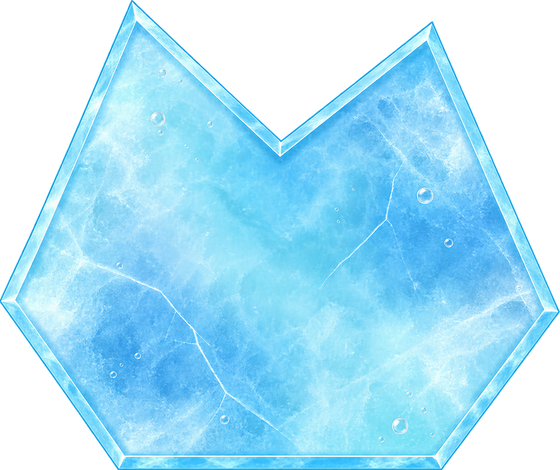
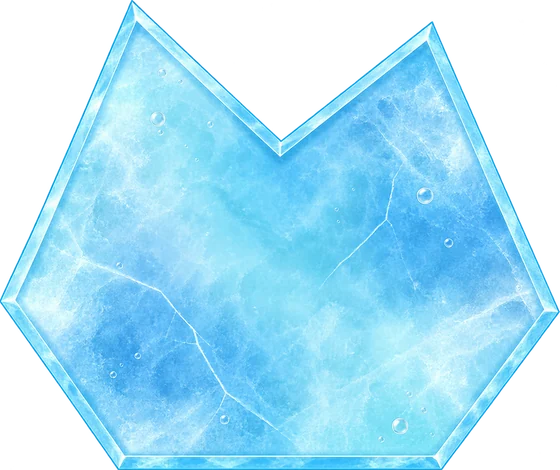
The hanging blocks stop shipping near-lossless, and the dead ends of two removed panels go with them
tools/build-option-shapes.mjs was the last encoder still on nearLossless — the
same mistake tools/slice-char.mjs already records having fixed for the character
sheets. It cost 122-283kB per block and 2.9MB for the set, and it was the single
largest BLOCKING download in the game: the engine preloads the whole of
optionShapes, so every one of the fourteen is fetched on every load, three times
the weight of the entire character set a phone pulls.

It bought nothing, for a specific reason rather than a judgement call. The
SILHOUETTE — the thing the learner counts the sides of — is not in these files.
paintGlacierChunk traces the ring from option-shapes.js and CLIPS to it, so the
countable outline is vector geometry no encoder can touch; the file carries only
the ice texture inside that outline, and it is never drawn at native size (a
560px block renders at ~273 stage px at most, the three-option case).

  option-shape        2.90MB -> 1.03MB
  base art on a phone 5.83MB -> 4.03MB

option-shapes.js comes out byte-identical, so every ring, side count, convexity
and regularity check is unchanged, and all fourteen still verify.

Dead code, all of it left behind by the Ouch card and the ending coins:

  hud.js       an unused shapeRing import; the winCount/winTotal lookups, whose
               elements went with the coins; the Try Again binding AND the two
               capture-phase listeners behind it, which ran on every key and
[…]

diff --git a/game/js/game.bundle.js b/game/js/game.bundle.js
@@ -66,20 +66,20 @@ const ASSET_V = {
   "assets/env/rock-tall.webp": "760283f8",
   "assets/env/rock-wide.webp": "6247692d",
   "assets/env/rope-tied.webp": "f9b3e721",
-  "assets/option-shape/concaveHeptagon.webp": "29723c85",
-  "assets/option-shape/concaveHexagon.webp": "e6b4772e",
-  "assets/option-shape/concavePentagon.webp": "21995454",
-  "assets/option-shape/irregularConvexHexagon.webp": "14a3f74b",
-  "assets/option-shape/irregularConvexOctagon.webp": "0e5ed5a5",
-  "assets/option-shape/irregularConvexPentagon.webp": "ec4cc8e3",
-  "assets/option-shape/irregularHexagon.webp": "e316a47a",
-  "assets/option-shape/irregularPentagon.webp": "c67075eb",
-  "assets/option-shape/regularHeptagon.webp": "2d60716e",
-  "assets/option-shape/regularHexagon.webp": "185e234e",
-  "assets/option-shape/regularOctagon.webp": "1b319c7e",
-  "assets/option-shape/regularPentagon.webp": "919d464a",
-  "assets/option-shape/regularQuadrilateral.webp": "1535a73f",
-  "assets/option-shape/regularTriangle.webp": "ca44c6bc",
+  "assets/option-shape/concaveHeptagon.webp": "d943871c",
+  "assets/option-shape/concaveHexagon.webp": "38aae90c",
+  "assets/option-shape/concavePentagon.webp": "25cd2560",
+  "assets/option-shape/irregularConvexHexagon.webp": "34026be0",
+  "assets/option-shape/irregularConvexOctagon.webp": "c9da4f1e",
+  "assets/option-shape/irregularConvexPentagon.webp": "9d83d4f8",
+  "assets/option-shape/irregularHexagon.webp": "ea10089e",
+  "assets/option-shape/irregularPentagon.webp": "143d86fb",
+  "assets/option-shape/regularHeptagon.webp": "f75c1fcd",
+  "assets/option-shape/regularHexagon.webp": "6e7f28e5",
+  "assets/option-shape/regularOctagon.webp": "33794981",
+  "assets/option-shape/regularPentagon.webp": "04a3a89a",
+  "assets/option-shape/regularQuadrilateral.webp": "63fa2bf0",
+  "assets/option-shape/regularTriangle.webp": "b16acb47",
   "assets/sky/01-dawn.webp": "7dbf9fd1",
   "assets/sky/02-early-morning.webp": "08988173",
   "assets/sky/03-morning.webp": "aae081ec",
@@ -9913,8 +9913,6 @@ class Hud {
       complete: root.getElementById('complete'),
       winBubble: root.getElementById('win-bubble'),
       winShape: root.getElementById('win-shape'),
-      winCount: root.getElementById('win-count'),
-      winTotal: root.getElementById('win-total'),
       replay: root.getElementById('btn-replay'),
       /* oops and retry are gone from the markup: a crash recovers by itself now and
          there is no failure panel. The lookups are not kept "just in case" — every
@@ -10121,22 +10119,13 @@ class Hud {
       handlers.onReplay();
     });
 
-    // "Try Again" retries the obstacle the mammoth walked into — it never
-    // restarts the journey, so no repaired bridge or progress is ever lost.
-    if (this.el.retry) {
-      this.el.retry.addEventListener('click', () => handlers.onRetry && handlers.onRetry());
-    }
-
-    /* WHICH INPUT IS IN USE. Only a keyboard player benefits from the Ouch card
-       focusing Try Again on open, and for everyone else that focus is what put a
-       visible focus indicator around the button unasked. Two listeners settle it:
-       any key press means a keyboard is in play, any pointer press means it is not.
-       Capture phase, so the flag is already right by the time anything reads it. */
-    this._kbd = false;
-    this._onKey = () => { this._kbd = true; };
-    this._onPtr = () => { this._kbd = false; };
-    window.addEventListener('keydown', this._onKey, true);
-    window.addEventListener('pointerdown', this._onPtr, true);
+    /* NO "TRY AGAIN" BINDING, and no keyboard/pointer tracking behind it. Both belonged
+       to the Ouch card: the binding to its button, and the two capture-phase listeners to
+       a `_kbd` flag that decided whether opening the card should focus that button. The
+       card is gone (a crash plays out and the run resumes on its own — see OBSTACLE_HIT),
+       so the button has no element, the flag had no reader, and the listeners ran on every
+       key and pointer press for the whole session to maintain it. The engine's
+       retryObstacle() is untouched: it is called by the engine itself, not from here. */
 
     // the banner's drawn shape follows its box when the window changes
     window.addEventListener('resize', () => { if (this._winFit && this.el.complete && !this.el.complete.hidden) this._winFit(); });
@@ -10239,9 +10228,6 @@ class Hud {
     clearTimeout(this._flashT);
     window.removeEventListener('resize', this._onResize);
     window.removeEventListener('orientationchange', this._onResize);
-
-    if (this._onKey) window.removeEventListener('keydown', this._onKey, true);
-    if (this._onPtr) window.removeEventListener('pointerdown', this._onPtr, true);
   }
 }
 
@@ -10267,14 +10253,10 @@ class Frontend {
     this.el = {
       cover: root.getElementById('cover'),
       play: root.getElementById('btn-play'),
-      loadingNote: root.getElementById('cover-loading'),
-      /* oopsHero is gone with the Ouch card — see index.html. The win panel has a hero
-         of its own, filled by showWin() below from the character's own sheet. */
-      winHero: root.getElementById('win-hero')
+      loadingNote: root.getElementById('cover-loading')
     };
     this.state = 'ENTERING';
     this._timers = [];
-    this._hurt = null;
   }
 
   /** @param {{onStart:Function}} handlers */
@@ -10337,51 +10319,22 @@ class Frontend {
     });
   }
 
-  /* ---- the Ouch panel's hero ---- */
-
-  /** One cell of a sprite strip, as a DOM background. */
-  frameAt(elem, sheet, f) {
-    if (!sheet) return;
-    elem.style.backgroundImage = 'url("' + sheet.src + '")';
-    elem.style.backgroundSize = (sheet.frames * 100) + '% 100%';
-    const pct = sheet.frames > 1 ? (f / (sheet.frames - 1)) * 100 : 0;
-    elem.style.backgroundPositionX = pct + '%';
-  }
-
-  /* THE WIN PANEL'S CHARACTER, on ONE frame rather than a loop.
-
-     The Ouch card used to run a setInterval stepping frames onto its hero at 140ms —
-     a second animation, outside the renderer, of a beat the canvas was already
-     animating. This does not repeat that: the character on the CANVAS behind the
-     panel is already celebrating, so a second animated copy of him on the panel would
-     be two performances of one moment. One still, held, is enough to say who did it.
-
-     It reads the idle sheet, which is the one delivered sheet with a settled standing
-     pose and is otherwise unused (see CFG.characters.sheets) — so the art is already
-     built and this costs nothing new. Falls through to run, then jump, so a missing
-     sheet leaves the panel without a picture rather than without a panel. */
-  showWin() {
-    if (!this.el.winHero) return;
-    const id = this.game.character();
-    const sheet = this.game.sheetFor(id, 'idle') ||
-                  this.game.sheetFor(id, 'run') ||
-                  this.game.sheetFor(id, 'jump');
-    if (!sheet) return;
-    this.frameAt(this.el.winHero, sheet, 0);
-  }
-
-  /* showHurt/hideHurt are gone. They ran a setInterval that stepped the last few
-     frames of a sheet onto the Ouch card's hero element at 140ms — a second, DOM-side
-     animation of a beat the canvas is already animating. The card went (a crash
-     recovers by itself now) and with it the reason for a frame pump outside the
-     renderer: the delivered 36-frame knockout plays on the canvas, where the rest of
-     the character animation lives. */
+  /* NO PANEL HERO, AND NO FRAME PUMP FOR ONE. Two of these lived here and both are gone
+     with the panels they filled: showHurt/hideHurt stepped sheet frames onto the Ouch
+     card's hero on a setInterval, and showWin held one idle frame on the ending card's.
+     The Ouch card went (a crash plays out and recovers by itself), and the ending card
+     has no hero either — the real character is on the CANVAS behind it, celebrating next
+     to the friend who was waiting, and a second still copy of him on the panel competed
+     with that as well as covering the pair of them. `frameAt`, the sprite-strip-as-DOM-
+     background helper both used, went with them: nothing outside the renderer animates
+     the character any more, which is where that job belongs. */
 
   wait(ms, fn) { const t = setTimeout(fn, ms); this._timers.push(t); return t; }
 
   destroy() {
+    // only wait() fills _timers, and only ever with setTimeout ids — the second sweep
+    // with clearInterval was for the frame pumps above, which are gone
     this._timers.forEach(clearTimeout);
-    this._timers.forEach(clearInterval);
     window.removeEventListener('keydown', this._onKey);
   }
 }
@@ -11639,7 +11592,6 @@ hud.bind({
   onReplay: () => game.restart(),
   // TEMPORARY review control: end the tutorial if it is up, then jump to the ending
   onSkipEnd: () => { if (tut) { tut.finish(); tut = null; } game.skipToEnd(); },
-  onRetry: () => game.retryObstacle(),
   // returns the new state so the HUD can swap the glyph without asking again
   onSound: () => game.toggleSound(),
   // re-states the objective; it never reveals which chunk is the answer

diff --git a/game/js/frontend.js b/game/js/frontend.js
@@ -18,14 +18,10 @@ export class Frontend {
     this.el = {
       cover: root.getElementById('cover'),
       play: root.getElementById('btn-play'),
-      loadingNote: root.getElementById('cover-loading'),
-      /* oopsHero is gone with the Ouch card — see index.html. The win panel has a hero
-         of its own, filled by showWin() below from the character's own sheet. */
-      winHero: root.getElementById('win-hero')
+      loadingNote: root.getElementById('cover-loading')
     };
     this.state = 'ENTERING';
     this._timers = [];
-    this._hurt = null;
   }
 
   /** @param {{onStart:Function}} handlers */
@@ -88,51 +84,22 @@ export class Frontend {
     });
   }
 
-  /* ---- the Ouch panel's hero ---- */
-
-  /** One cell of a sprite strip, as a DOM background. */
-  frameAt(elem, sheet, f) {
-    if (!sheet) return;
-    elem.style.backgroundImage = 'url("' + sheet.src + '")';
-    elem.style.backgroundSize = (sheet.frames * 100) + '% 100%';
-    const pct = sheet.frames > 1 ? (f / (sheet.frames - 1)) * 100 : 0;
-    elem.style.backgroundPositionX = pct + '%';
-  }
-
-  /* THE WIN PANEL'S CHARACTER, on ONE frame rather than a loop.
-
-     The Ouch card used to run a setInterval stepping frames onto its hero at 140ms —
-     a second animation, outside the renderer, of a beat the canvas was already
-     animating. This does not repeat that: the character on the CANVAS behind the
-     panel is already celebrating, so a second animated copy of him on the panel would
-     be two performances of one moment. One still, held, is enough to say who did it.
-
-     It reads the idle sheet, which is the one delivered sheet with a settled standing
-     pose and is otherwise unused (see CFG.characters.sheets) — so the art is already
-     built and this costs nothing new. Falls through to run, then jump, so a missing
-     sheet leaves the panel without a picture rather than without a panel. */
-  showWin() {
-    if (!this.el.winHero) return;
-    const id = this.game.character();
-    const sheet = this.game.sheetFor(id, 'idle') ||
-                  this.game.sheetFor(id, 'run') ||
-                  this.game.sheetFor(id, 'jump');
-    if (!sheet) return;
-    this.frameAt(this.el.winHero, sheet, 0);
-  }
-
-  /* showHurt/hideHurt are gone. They ran a setInterval that stepped the last few
-     frames of a sheet onto the Ouch card's hero element at 140ms — a second, DOM-side
-     animation of a beat the canvas is already animating. The card went (a crash
-     recovers by itself now) and with it the reason for a frame pump outside the
-     renderer: the delivered 36-frame knockout plays on the canvas, where the rest of
-     the character animation lives. */
+  /* NO PANEL HERO, AND NO FRAME PUMP FOR ONE. Two of these lived here and both are gone
+     with the panels they filled: showHurt/hideHurt stepped sheet frames onto the Ouch
+     card's hero on a setInterval, and showWin held one idle frame on the ending card's.
+     The Ouch card went (a crash plays out and recovers by itself), and the ending card
+     has no hero either — the real character is on the CANVAS behind it, celebrating next
+     to the friend who was waiting, and a second still copy of him on the panel competed
+     with that as well as covering the pair of them. `frameAt`, the sprite-strip-as-DOM-
+     background helper both used, went with them: nothing outside the renderer animates
+     the character any more, which is where that job belongs. */
 
   wait(ms, fn) { const t = setTimeout(fn, ms); this._timers.push(t); return t; }
 
   destroy() {
+    // only wait() fills _timers, and only ever with setTimeout ids — the second sweep
+    // with clearInterval was for the frame pumps above, which are gone
     this._timers.forEach(clearTimeout);
-    this._timers.forEach(clearInterval);
     window.removeEventListener('keydown', this._onKey);
   }
 }

diff --git a/game/js/hud.js b/game/js/hud.js
@@ -1,7 +1,6 @@
 /* HUD controller — owns every DOM element outside the canvas and mirrors the
    engine's HUD state onto it. The engine never touches the DOM itself. */
 
-import { shapeRing } from './option-shapes.js';
 import { fitBubble } from './bubble.js';
 
 export class Hud {
@@ -34,8 +33,6 @@ export class Hud {
       complete: root.getElementById('complete'),
       winBubble: root.getElementById('win-bubble'),
       winShape: root.getElementById('win-shape'),
-      winCount: root.getElementById('win-count'),
-      winTotal: root.getElementById('win-total'),
       replay: root.getElementById('btn-replay'),
       /* oops and retry are gone from the markup: a crash recovers by itself now and
          there is no failure panel. The lookups are not kept "just in case" — every
@@ -242,22 +239,13 @@ export class Hud {
       handlers.onReplay();
     });
 
-    // "Try Again" retries the obstacle the mammoth walked into — it never
-    // restarts the journey, so no repaired bridge or progress is ever lost.
-    if (this.el.retry) {
-      this.el.retry.addEventListener('click', () => handlers.onRetry && handlers.onRetry());
-    }
-
-    /* WHICH INPUT IS IN USE. Only a keyboard player benefits from the Ouch card
-       focusing Try Again on open, and for everyone else that focus is what put a
-       visible focus indicator around the button unasked. Two listeners settle it:
-       any key press means a keyboard is in play, any pointer press means it is not.
-       Capture phase, so the flag is already right by the time anything reads it. */
-    this._kbd = false;
-    this._onKey = () => { this._kbd = true; };
-    this._onPtr = () => { this._kbd = false; };
-    window.addEventListener('keydown', this._onKey, true);
-    window.addEventListener('pointerdown', this._onPtr, true);
+    /* NO "TRY AGAIN" BINDING, and no keyboard/pointer tracking behind it. Both belonged
+       to the Ouch card: the binding to its button, and the two capture-phase listeners to
+       a `_kbd` flag that decided whether opening the card should focus that button. The
+       card is gone (a crash plays out and the run resumes on its own — see OBSTACLE_HIT),
+       so the button has no element, the flag had no reader, and the listeners ran on every
+       key and pointer press for the whole session to maintain it. The engine's
+       retryObstacle() is untouched: it is called by the engine itself, not from here. */
 
     // the banner's drawn shape follows its box when the window changes
     window.addEventListener('resize', () => { if (this._winFit && this.el.complete && !this.el.complete.hidden) this._winFit(); });
@@ -360,8 +348,5 @@ export class Hud {
     clearTimeout(this._flashT);
     window.removeEventListener('resize', this._onResize);
     window.removeEventListener('orientationchange', this._onResize);
-
-    if (this._onKey) window.removeEventListener('keydown', this._onKey, true);
-    if (this._onPtr) window.removeEventListener('pointerdown', this._onPtr, true);
   }
 }

diff --git a/game/js/asset-versions.js b/game/js/asset-versions.js
@@ -48,20 +48,20 @@ export const ASSET_V = {
   "assets/env/rock-tall.webp": "760283f8",
   "assets/env/rock-wide.webp": "6247692d",
   "assets/env/rope-tied.webp": "f9b3e721",
-  "assets/option-shape/concaveHeptagon.webp": "29723c85",
-  "assets/option-shape/concaveHexagon.webp": "e6b4772e",
-  "assets/option-shape/concavePentagon.webp": "21995454",
-  "assets/option-shape/irregularConvexHexagon.webp": "14a3f74b",
-  "assets/option-shape/irregularConvexOctagon.webp": "0e5ed5a5",
-  "assets/option-shape/irregularConvexPentagon.webp": "ec4cc8e3",
-  "assets/option-shape/irregularHexagon.webp": "e316a47a",
-  "assets/option-shape/irregularPentagon.webp": "c67075eb",
-  "assets/option-shape/regularHeptagon.webp": "2d60716e",
-  "assets/option-shape/regularHexagon.webp": "185e234e",
-  "assets/option-shape/regularOctagon.webp": "1b319c7e",
-  "assets/option-shape/regularPentagon.webp": "919d464a",
-  "assets/option-shape/regularQuadrilateral.webp": "1535a73f",
-  "assets/option-shape/regularTriangle.webp": "ca44c6bc",
+  "assets/option-shape/concaveHeptagon.webp": "d943871c",
+  "assets/option-shape/concaveHexagon.webp": "38aae90c",
+  "assets/option-shape/concavePentagon.webp": "25cd2560",
+  "assets/option-shape/irregularConvexHexagon.webp": "34026be0",
+  "assets/option-shape/irregularConvexOctagon.webp": "c9da4f1e",
+  "assets/option-shape/irregularConvexPentagon.webp": "9d83d4f8",
+  "assets/option-shape/irregularHexagon.webp": "ea10089e",
+  "assets/option-shape/irregularPentagon.webp": "143d86fb",
+  "assets/option-shape/regularHeptagon.webp": "f75c1fcd",
+  "assets/option-shape/regularHexagon.webp": "6e7f28e5",
+  "assets/option-shape/regularOctagon.webp": "33794981",
+  "assets/option-shape/regularPentagon.webp": "04a3a89a",
+  "assets/option-shape/regularQuadrilateral.webp": "63fa2bf0",
+  "assets/option-shape/regularTriangle.webp": "b16acb47",
   "assets/sky/01-dawn.webp": "7dbf9fd1",
   "assets/sky/02-early-morning.webp": "08988173",
   "assets/sky/03-morning.webp": "aae081ec",

diff --git a/game/js/main.js b/game/js/main.js
@@ -236,7 +236,6 @@ hud.bind({
   onReplay: () => game.restart(),
   // TEMPORARY review control: end the tutorial if it is up, then jump to the ending
   onSkipEnd: () => { if (tut) { tut.finish(); tut = null; } game.skipToEnd(); },
-  onRetry: () => game.retryObstacle(),
   // returns the new state so the HUD can swap the glyph without asking again
   onSound: () => game.toggleSound(),
   // re-states the objective; it never reveals which chunk is the answer
